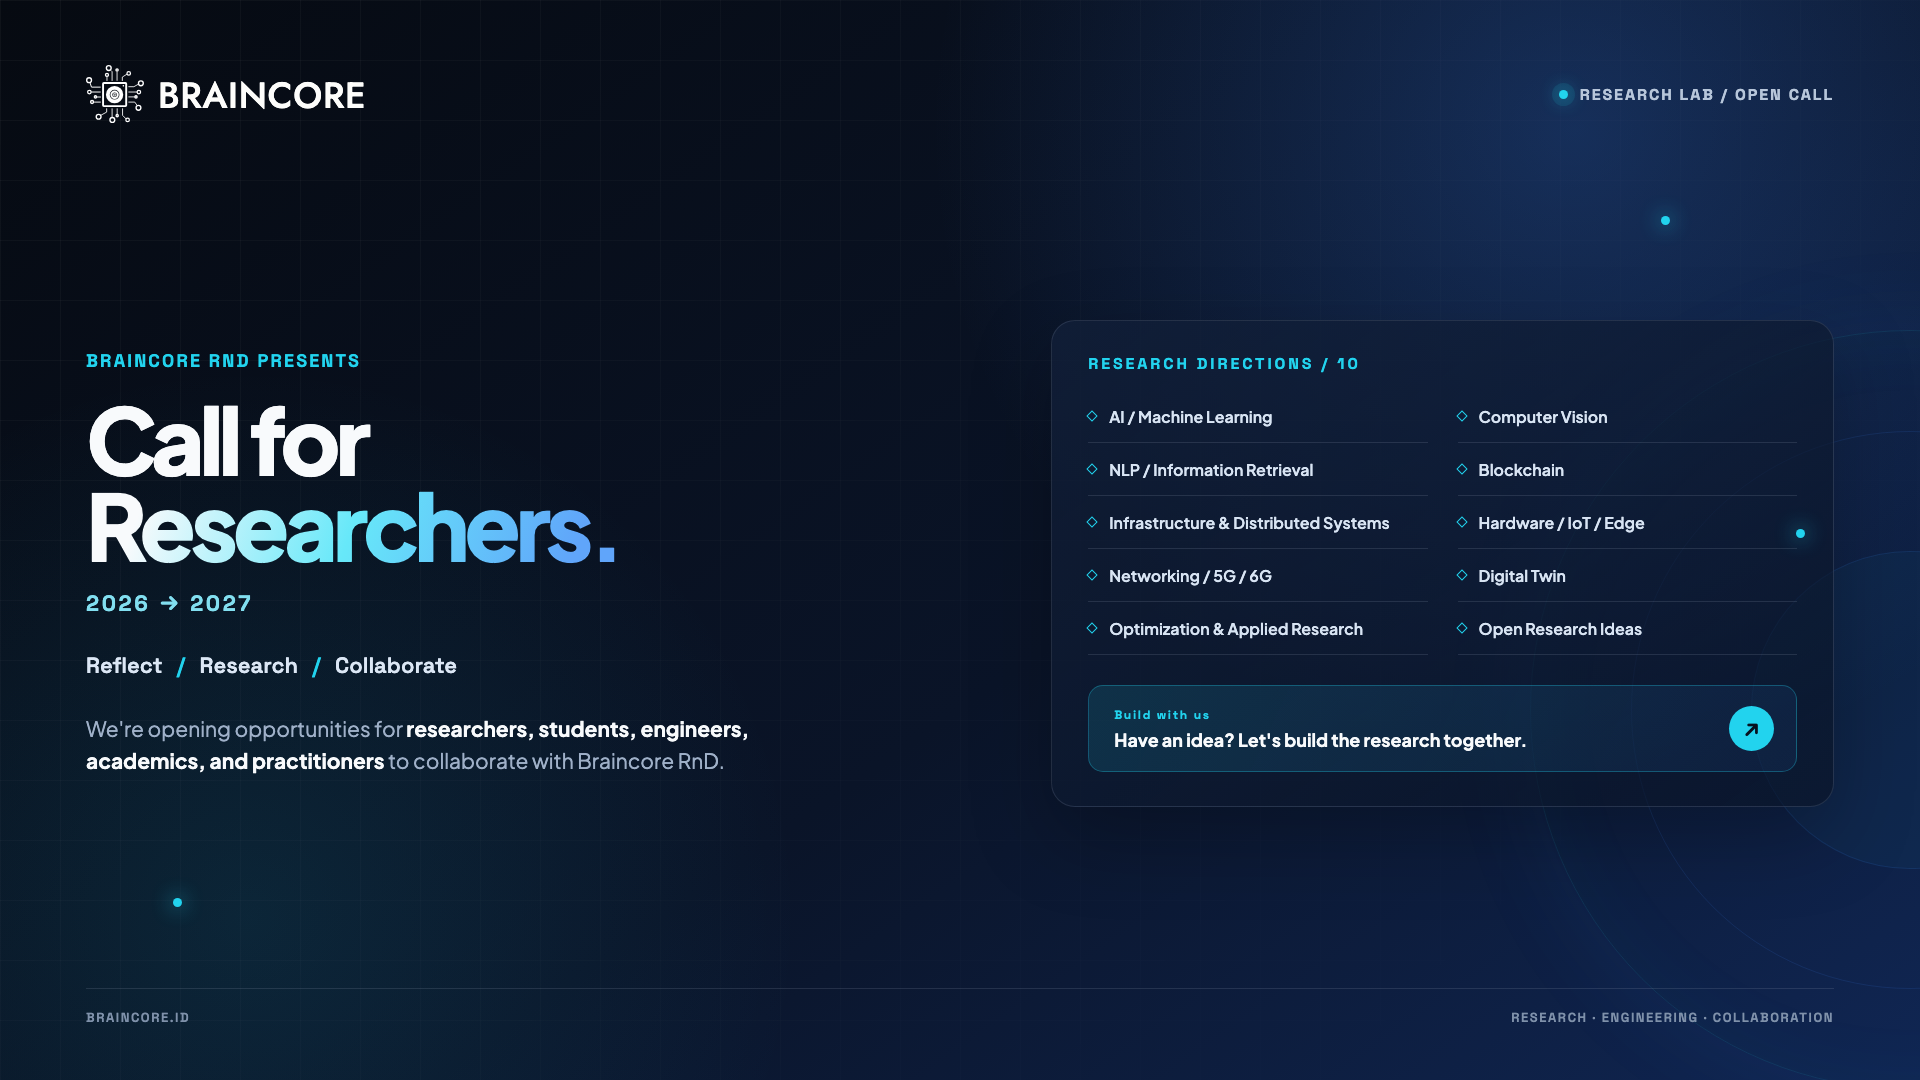
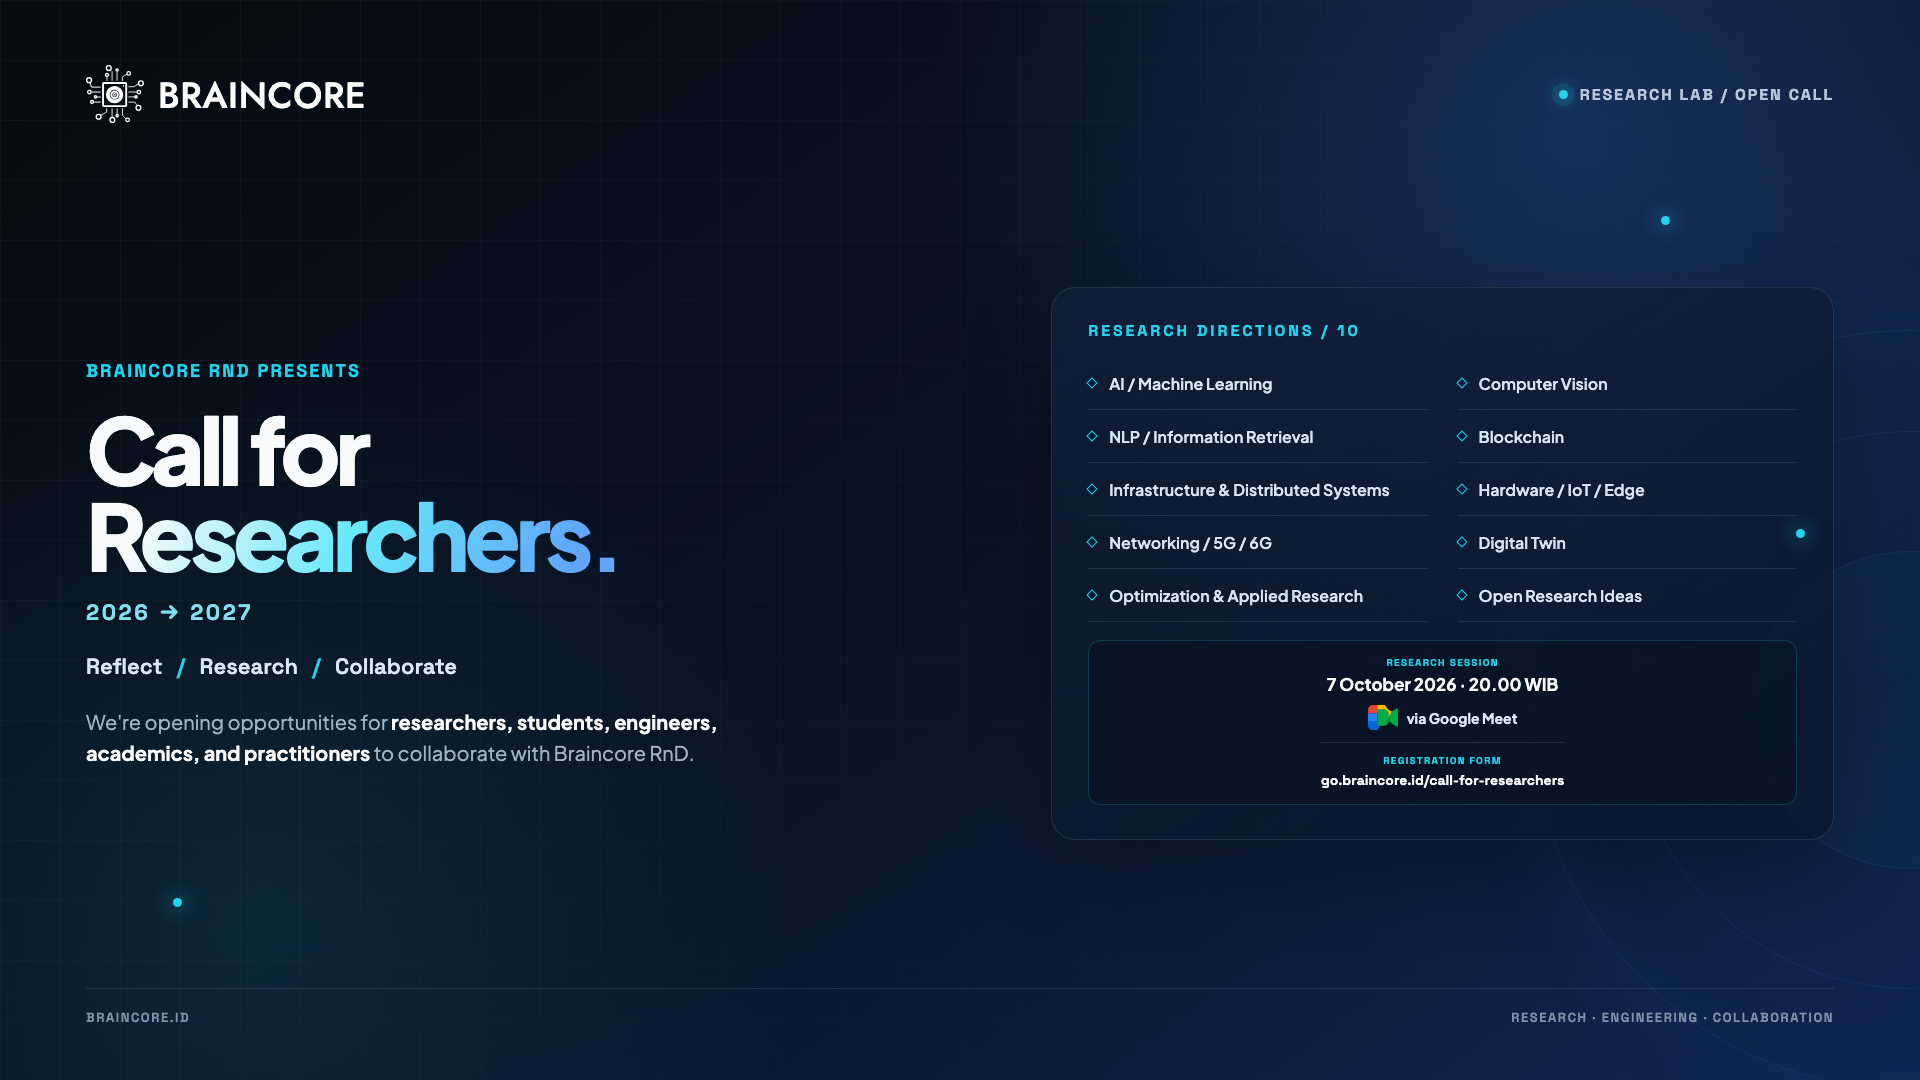
Add Braincore research session details

Changed region(s): [[0.5625, 0.3056, 0.9375, 0.7333], [0.0312, 0.3056, 0.3125, 0.5806], [0.0312, 0.6111, 0.375, 0.7333]]

diff --git a/braincore/call-for-researchers/styles.css b/braincore/call-for-researchers/styles.css
@@ -33,35 +33,52 @@ html, body { overflow: hidden; background: var(--bg); color: var(--white); font-
 .principles span + span::before { content: "/"; color: var(--cyan); margin: 0 .65em; }
 .intro { color: var(--muted); line-height: 1.55; }
 .intro strong { color: var(--white); }
+.event-info { display: flex; flex-direction: column; align-items: center; justify-content: center; text-align: center; border: 1px solid rgba(34,211,238,.22); background: rgba(6,15,29,.52); }
+.event-info > div:first-child { display: flex; flex-direction: column; align-items: center; }
+.event-label { color: var(--cyan); font-family: var(--mono); font-weight: 700; letter-spacing: .13em; text-transform: uppercase; }
+.event-info strong { color: var(--white); }
+.meet { display: flex; align-items: center; color: #dce7f5; font-weight: 700; white-space: nowrap; }
+.meet img { display: block; object-fit: contain; }
+.registration { display: flex; flex-direction: column; align-items: center; border-top: 1px solid var(--line); color: #dce7f5; }
+.registration span { color: var(--cyan); font-family: var(--mono); font-weight: 700; letter-spacing: .13em; text-transform: uppercase; }
+.registration strong { color: var(--white); font-family: var(--mono); }
 .areas { display: grid; }
 .area { display: flex; align-items: center; gap: 13px; color: #d8e4f3; border-bottom: 1px solid var(--line); font-weight: 600; }
 .area::before { content: ""; flex: 0 0 auto; width: 6px; height: 6px; border: 1px solid var(--cyan); transform: rotate(45deg); }
-.cta { display: flex; align-items: center; justify-content: space-between; border: 1px solid rgba(34,211,238,.3); background: linear-gradient(115deg, rgba(34,211,238,.13), rgba(59,130,246,.08)); }
+.cta { position: relative; display: flex; align-items: center; justify-content: center; text-align: center; border: 1px solid rgba(34,211,238,.3); background: linear-gradient(115deg, rgba(34,211,238,.13), rgba(59,130,246,.08)); }
 .cta-label { color: var(--cyan); font-family: var(--mono); font-weight: 700; letter-spacing: .14em; }
 .cta-copy { font-weight: 700; }
-.arrow { display: grid; place-items: center; border-radius: 50%; color: #07111f; background: var(--cyan); font-weight: 800; }
+.arrow { position: absolute; right: 28px; display: grid; place-items: center; border-radius: 50%; color: #07111f; background: var(--cyan); font-weight: 800; }
 .footer { color: #7f91aa; border-top: 1px solid var(--line); }
 
 /* Story: 1080 x 1920 */
 .story { width: 1080px; height: 1920px; }
-.story .frame { padding: 250px 78px; }
+.story .frame { padding: 210px 78px; }
 .story .logo { height: 59px; }
 .story .lab-tag { font-size: 17px; }
-.story main { flex: 1; display: flex; flex-direction: column; justify-content: center; padding: 54px 0 42px; }
+.story main { flex: 1; display: flex; flex-direction: column; justify-content: center; padding: 46px 0 32px; }
 .story .eyebrow { font-size: 21px; letter-spacing: .21em; margin-bottom: 27px; }
 .story .title { font-size: 104px; max-width: 900px; }
 .story .year { margin-top: 26px; color: #82dff0; font-size: 25px; font-weight: 700; }
-.story .principles { margin-top: 44px; font-size: 25px; }
-.story .intro { margin-top: 43px; max-width: 850px; font-size: 25px; }
-.story .areas-wrap { margin-top: 62px; }
+.story .event-info { flex: 0 0 auto; padding: 25px 28px; border-radius: 18px; }
+.story .event-label { margin-bottom: 8px; font-size: 14px; }
+.story .event-info > div:first-child strong { font-size: 24px; }
+.story .meet { margin-top: 15px; gap: 12px; font-size: 20px; }
+.story .meet img { width: 40px; height: 33px; }
+.story .registration { width: 100%; margin-top: 18px; padding-top: 17px; gap: 7px; }
+.story .registration span { font-size: 13px; }
+.story .registration strong { font-size: 22px; }
+.story .principles { margin-top: 32px; font-size: 25px; }
+.story .intro { margin-top: 31px; max-width: 850px; font-size: 24px; }
+.story .areas-wrap { margin-top: 42px; }
 .story .areas-label { color: #7588a3; font: 700 16px var(--mono); letter-spacing: .18em; text-transform: uppercase; margin-bottom: 14px; }
 .story .areas { grid-template-columns: 1fr 1fr; column-gap: 38px; }
 .story .area { min-height: 63px; font-size: 18px; }
-.story .cta { margin-top: 48px; padding: 27px 28px 27px 32px; border-radius: 18px; }
+.story .cta { margin-top: 38px; padding: 25px 28px 25px 32px; border-radius: 18px; }
 .story .cta-label { font-size: 14px; margin-bottom: 8px; }
-.story .cta-copy { font-size: 24px; }
+.story .cta-copy { font-family: var(--mono); font-size: 22px; letter-spacing: -.02em; }
 .story .arrow { width: 55px; height: 55px; font-size: 25px; }
-.story .footer { margin-top: 36px; padding-top: 24px; font-size: 14px; }
+.story .footer { margin-top: 26px; padding-top: 22px; font-size: 14px; }
 
 /* FHD banner: 1920 x 1080 */
 .banner { width: 1920px; height: 1080px; }
@@ -72,14 +89,22 @@ html, body { overflow: hidden; background: var(--bg); color: var(--white); font-
 .banner .eyebrow { font-size: 18px; margin-bottom: 24px; }
 .banner .title { font-size: 92px; max-width: 800px; }
 .banner .year { margin-top: 20px; color: #82dff0; font-size: 22px; font-weight: 700; }
-.banner .principles { margin-top: 34px; font-size: 22px; }
-.banner .intro { margin-top: 34px; max-width: 720px; font-size: 21px; }
+.banner .event-info { margin-top: 18px; width: 100%; padding: 15px 18px; border-radius: 13px; }
+.banner .event-label { margin-bottom: 4px; font-size: 10px; }
+.banner .event-info strong { font-size: 17px; }
+.banner .meet { margin-top: 10px; gap: 9px; font-size: 14px; }
+.banner .meet img { width: 30px; height: 25px; }
+.banner .registration { margin-top: 12px; padding-top: 11px; gap: 4px; }
+.banner .registration span { font-size: 10px; }
+.banner .registration strong { font-size: 14px; }
+.banner .principles { margin-top: 26px; font-size: 22px; }
+.banner .intro { margin-top: 26px; max-width: 720px; font-size: 20px; }
 .banner .right-panel { padding: 32px 36px 34px; border: 1px solid var(--line); border-radius: 24px; background: linear-gradient(145deg, rgba(17,31,57,.75), rgba(8,17,34,.62)); box-shadow: 0 30px 80px rgba(0,0,0,.25); }
 .banner .areas-label { color: var(--cyan); font: 700 16px var(--mono); letter-spacing: .18em; text-transform: uppercase; margin-bottom: 16px; }
 .banner .areas { grid-template-columns: 1fr 1fr; column-gap: 30px; }
 .banner .area { min-height: 53px; font-size: 16px; }
 .banner .cta { margin-top: 30px; padding: 20px 22px 20px 25px; border-radius: 15px; }
 .banner .cta-label { font-size: 12px; margin-bottom: 5px; }
-.banner .cta-copy { font-size: 18px; }
+.banner .cta-copy { font-family: var(--mono); font-size: 17px; letter-spacing: -.02em; }
 .banner .arrow { width: 45px; height: 45px; font-size: 20px; }
 .banner .footer { padding-top: 20px; font-size: 13px; }

diff --git a/braincore/call-for-researchers/banner.html b/braincore/call-for-researchers/banner.html
@@ -18,7 +18,7 @@
         <div class="area">Infrastructure & Distributed Systems</div><div class="area">Hardware / IoT / Edge</div>
         <div class="area">Networking / 5G / 6G</div><div class="area">Digital Twin</div>
         <div class="area">Optimization & Applied Research</div><div class="area">Open Research Ideas</div>
-      </div><div class="cta"><div><p class="cta-label">Build with us</p><p class="cta-copy">Have an idea? Let's build the research together.</p></div><span class="arrow">↗</span></div></section>
+      </div><div class="event-info"><div><span class="event-label">Research Session</span><strong>7 October 2026 · 20.00 WIB</strong></div><div class="meet"><img src="../../img/google-meet.svg" alt="Google Meet"><span>via Google Meet</span></div><div class="registration"><span>Registration form</span><strong>go.braincore.id/call-for-researchers</strong></div></div></section>
     </main>
     <footer class="footer"><span>braincore.id</span><span>Research · Engineering · Collaboration</span></footer>
   </div>

diff --git a/braincore/call-for-researchers/story.html b/braincore/call-for-researchers/story.html
@@ -23,8 +23,8 @@
         <div class="area">Networking / 5G / 6G</div><div class="area">Digital Twin</div>
         <div class="area">Optimization & Applied Research</div><div class="area">Open Research Ideas</div>
       </div></section>
-      <div class="cta"><div><p class="cta-label">Build with us</p><p class="cta-copy">Have an idea? Let's build the research together.</p></div><span class="arrow">↗</span></div>
     </main>
+    <div class="event-info"><div><span class="event-label">Research Session</span><strong>7 October 2026 · 20.00 WIB</strong></div><div class="meet"><img src="../../img/google-meet.svg" alt="Google Meet"><span>via Google Meet</span></div><div class="registration"><span>Registration form</span><strong>go.braincore.id/call-for-researchers</strong></div></div>
     <footer class="footer"><span>braincore.id</span><span>Research · Engineering · Collaboration</span></footer>
   </div>
 </div></body></html>
